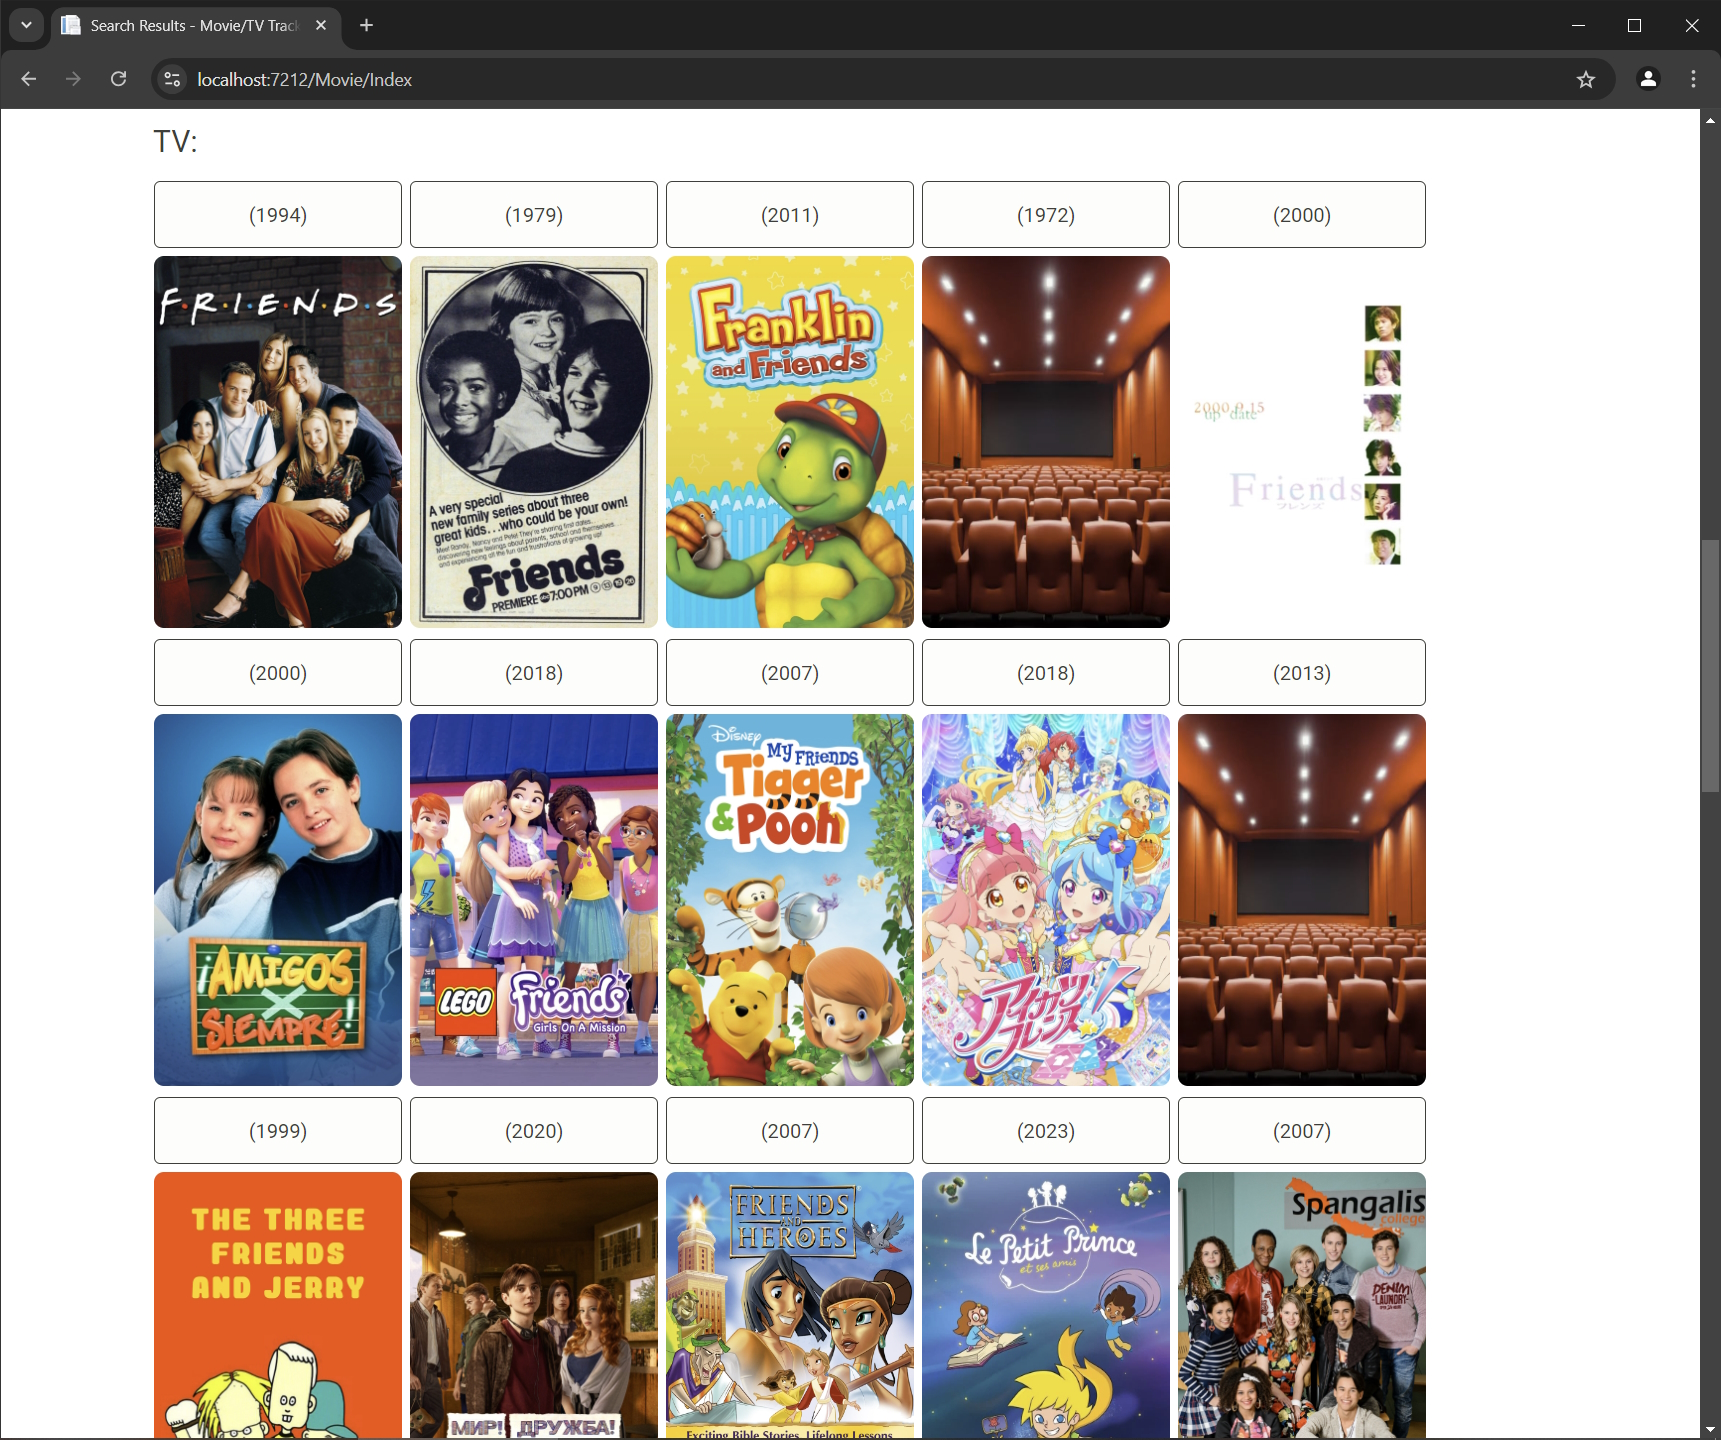
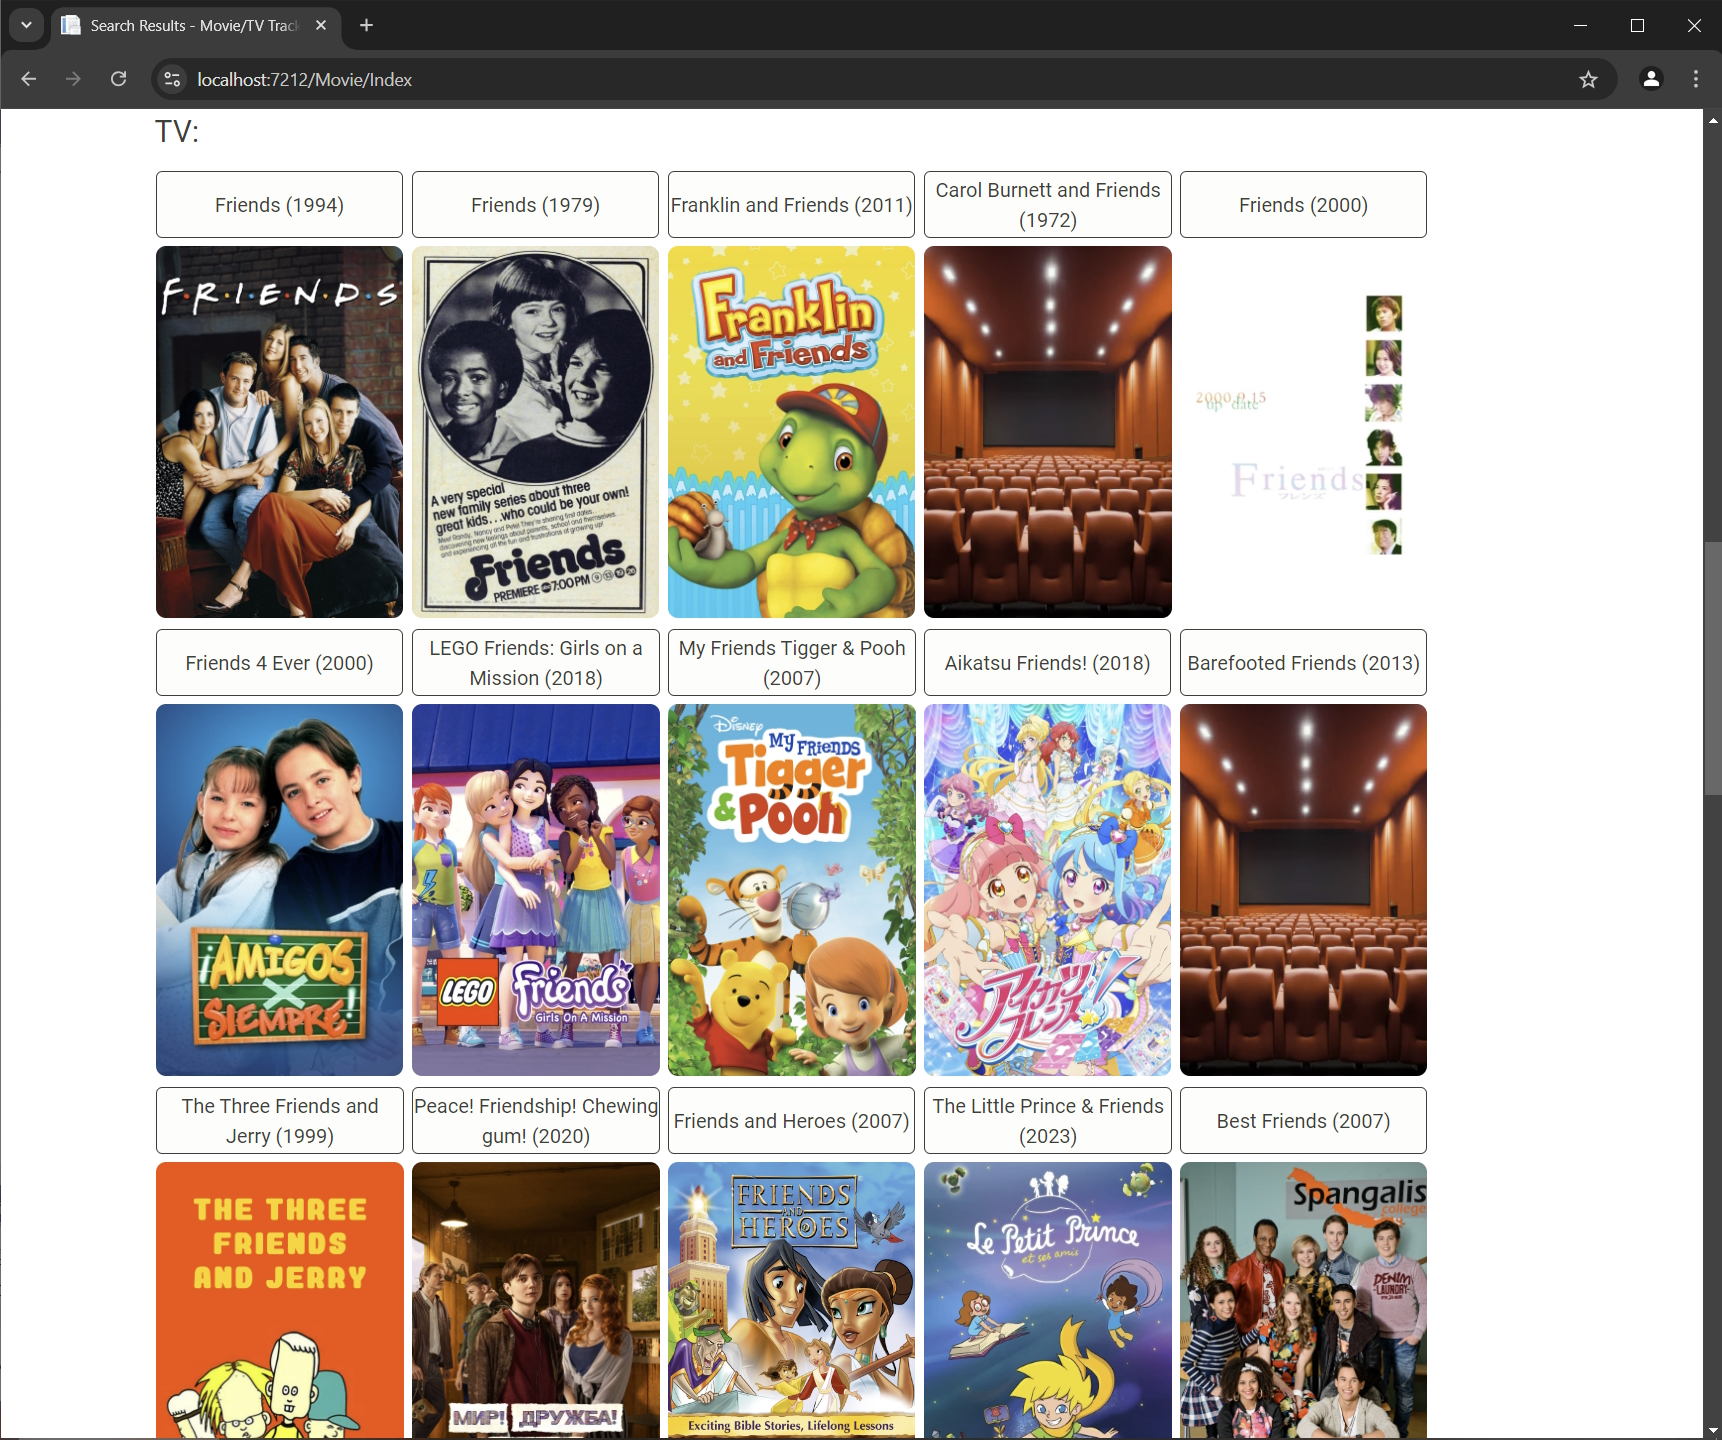
Fixed a bug where the name of the TV show wasnt being displayed on a search.  Updated GitHub image and ReadMe.Md.

diff --git a/README.md b/README.md
@@ -35,6 +35,7 @@ Technologies / Principles Used:
 - REST API
 - TMDB API
 - NET Core (Console & Class Library)
+- CSS / Bootstrap Themes & Icons
 - RestSharp
 - Newtonsoft.Json
 - Entity Framework - Code first approach
@@ -42,12 +43,15 @@ Technologies / Principles Used:
 
 Requirements:
 
-SQL backend database to be installed.
+- SQL backend database to be installed.
 
 Resources / Credits:
 
 - https://www.themoviedb.org/?language=en-GB
 - https://developer.themoviedb.org/reference/intro/getting-started
+- https://getbootstrap.com/docs/5.3/getting-started/introduction/
+- https://icons.getbootstrap.com/
+- https://bootswatch.com/sandstone/
 
 Images:
 
